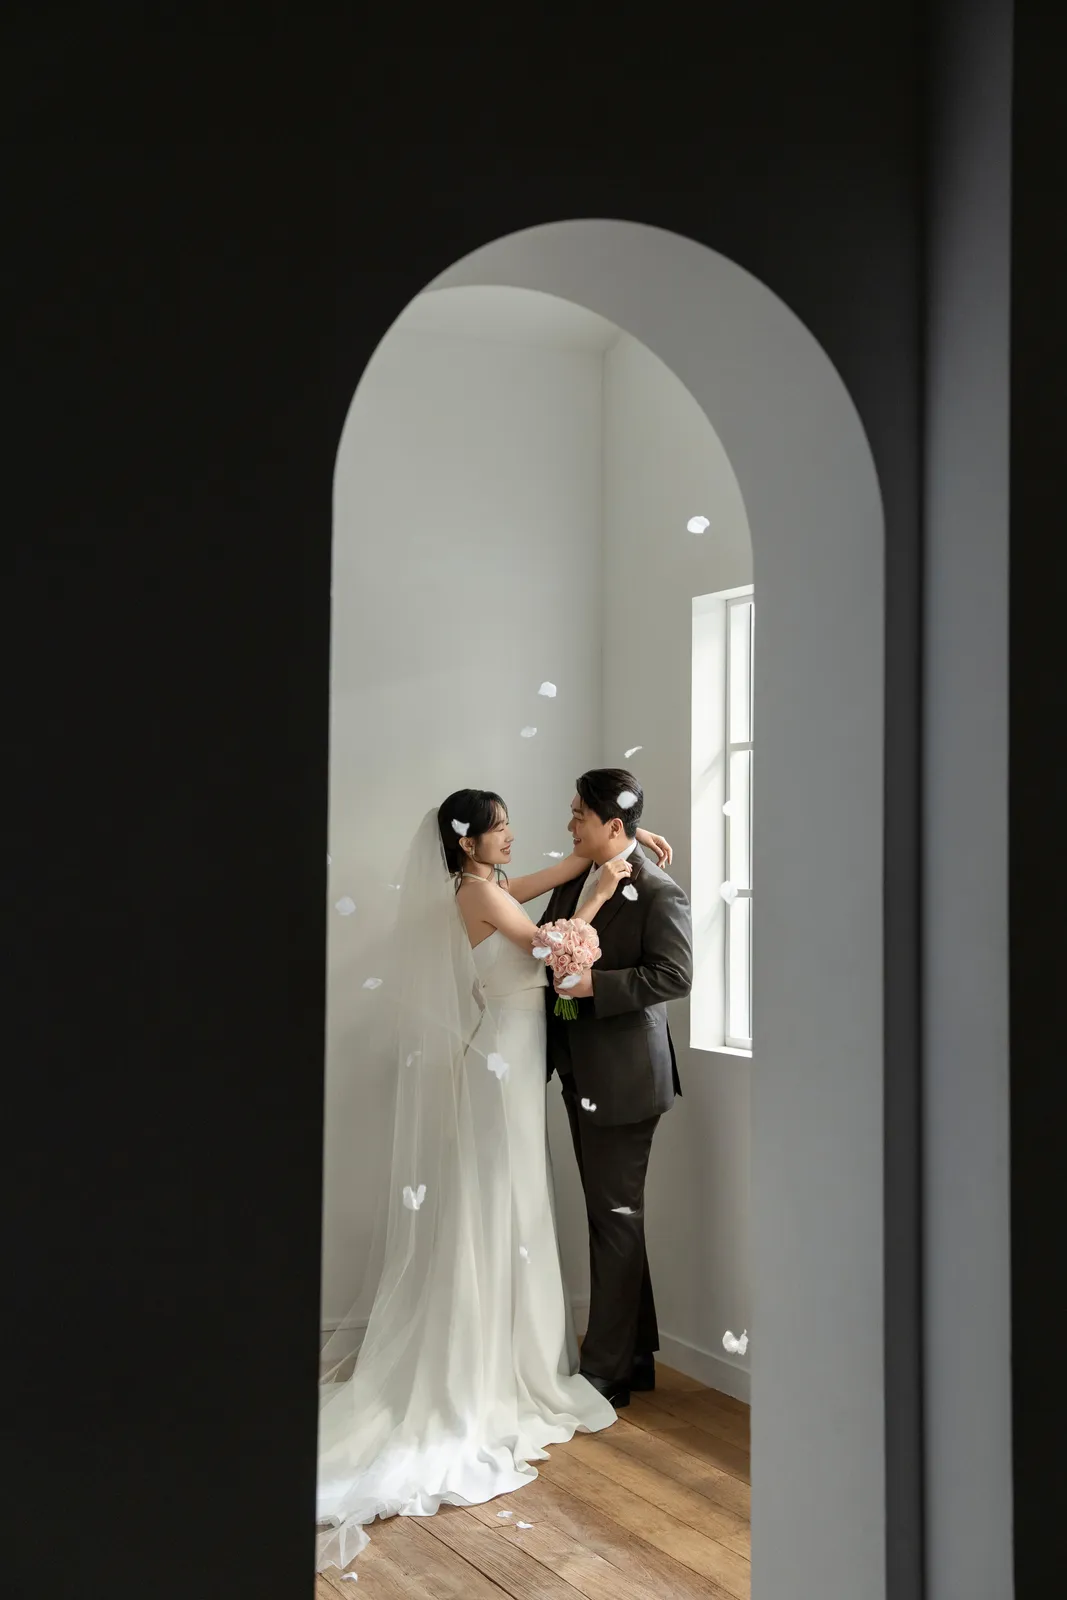
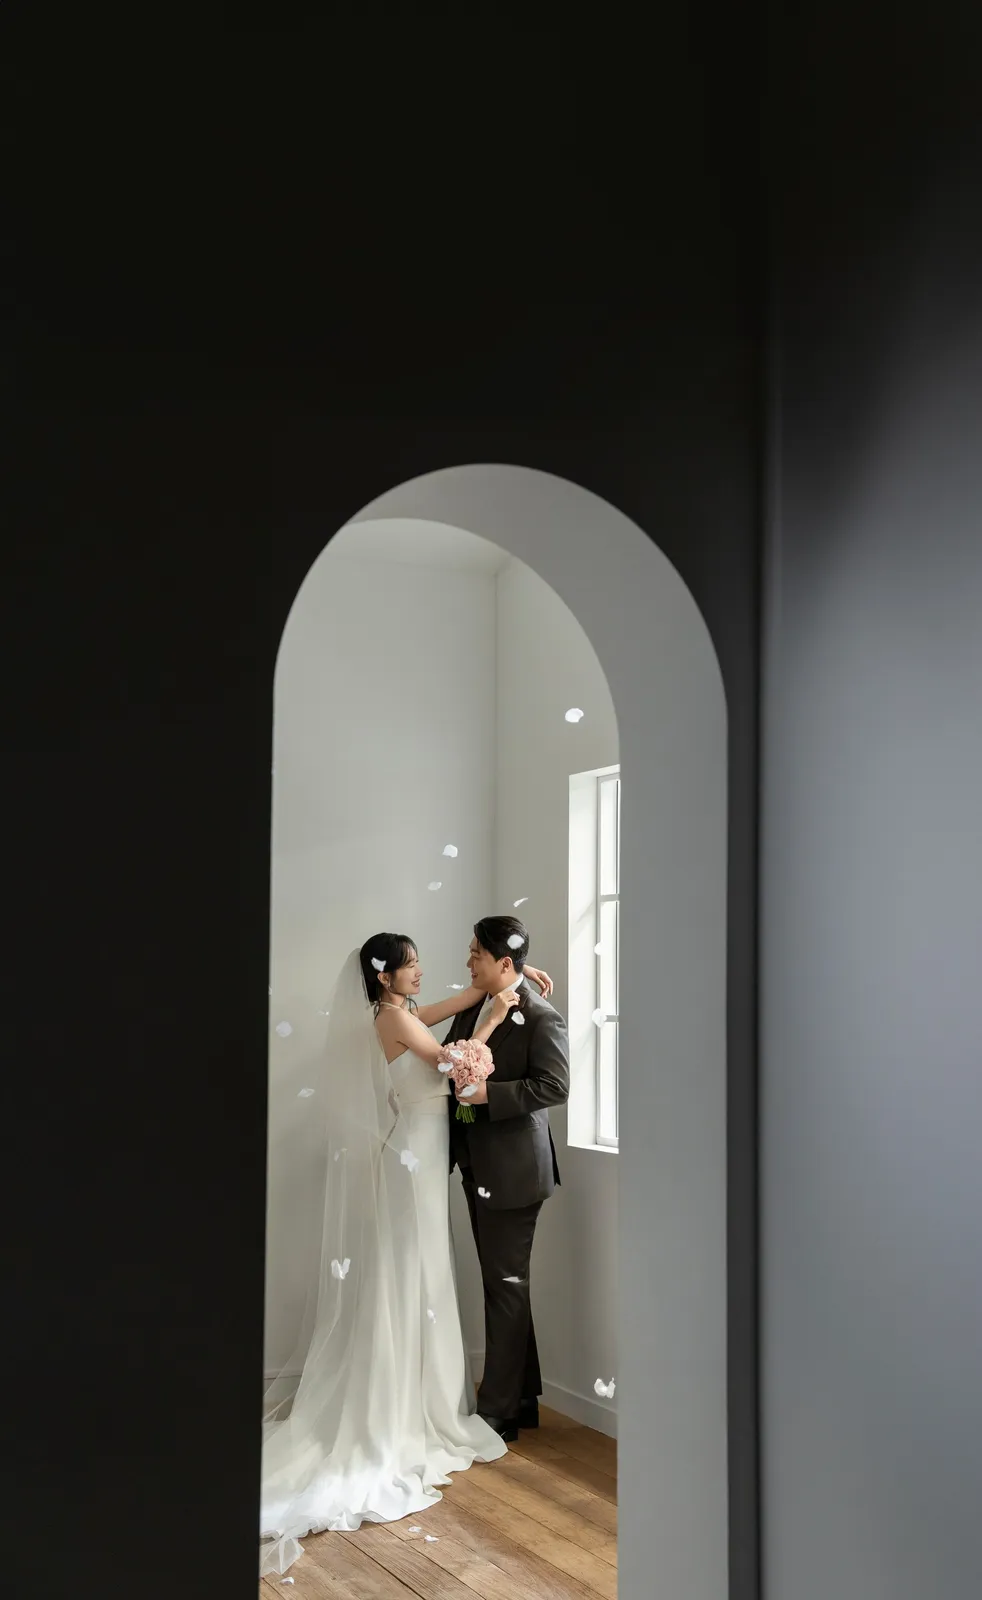
feat: 일러스트 수정 디자인 적용 — 보정 사진(12수정본)으로 커버·갤러리·공유썸네일 교체, 커버 문구 순서 변경(예식장→날짜)

diff --git a/src/sections/intro.js b/src/sections/intro.js
@@ -86,8 +86,8 @@ function mountWave(el, w) {
     <div class="wv-top">
       <p class="wv-label">${waveText('THE WEDDING OF', 0.3)}</p>
       <p class="wv-names">${waveText(w.groom.name, 1.0)}<span class="wv wv-amp" style="--d:1.35s;--dx:0px;--dy:26px">&amp;</span>${waveText(w.bride.name, 1.5)}</p>
-      <p class="wv-date">${waveText(dateLine, 2.0)}</p>
-      <p class="wv-venue">${waveText(`${w.venue.name} ${w.venue.hall}`, 2.6)}</p>
+      <p class="wv-venue">${waveText(`${w.venue.name} ${w.venue.hall}`, 2.0)}</p>
+      <p class="wv-date">${waveText(dateLine, 2.6)}</p>
     </div>
   `;
 }

diff --git a/src/styles/main.css b/src/styles/main.css
@@ -309,8 +309,8 @@ a.snap-btn { display: block; text-decoration: none; text-align: center; }
 .wv-label { font-size: 15px; letter-spacing: 0.3em; text-indent: 0.3em; }
 .wv-names { font-size: 29px; letter-spacing: 0.1em; margin-top: 3.6dvh; font-family: var(--serif-strong); font-weight: 400; }
 .wv-amp { font-family: 'Great Vibes', cursive; font-size: 30px; font-weight: 400; margin: 0 18px; vertical-align: -3px; }
-.wv-date { font-size: 16.5px; letter-spacing: 0.16em; margin-top: 3.4dvh; }
-.wv-venue { font-size: 13.5px; letter-spacing: 0.06em; margin-top: 1.6dvh; opacity: 0.95; }
+.wv-venue { font-size: 14px; letter-spacing: 0.06em; margin-top: 3.4dvh; opacity: 0.95; }
+.wv-date { font-size: 16.5px; letter-spacing: 0.16em; margin-top: 1.4dvh; }
 .wv { display: inline-block; opacity: 0; animation: wv-in 1.5s cubic-bezier(0.22, 0.61, 0.36, 1) var(--d) forwards; text-shadow: 0 1px 14px rgba(0,0,0,0.35); }
 .wv-sp { display: inline-block; width: 0.4em; }
 @keyframes wv-in {